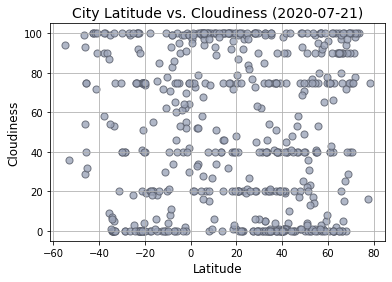
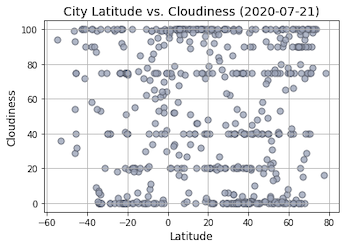
image size changes

diff --git a/WebVisualizations/index.html b/WebVisualizations/index.html
@@ -53,7 +53,7 @@
 						<div class="about-border"></div>
 						<div class="vizcards">
 							<div class="image-wrapper float-left pr-3">
-								<img src="images/lat_temp.png" width="392" height="282" alt="temp">
+								<img src="images/lat_temp.png" width="345" height="248" alt="temp">
 							</div>
 							<div class="single-post-content-wrapper p-3">
 								Whether financial, political, or social -- data's true power lies in its ability to answer questions definitively. I used Python requests, APIs, and JSON traversals to answer a fundamental question: "What's the weather like as we approach the equator?"

diff --git a/WebVisualizations/temp.html b/WebVisualizations/temp.html
@@ -53,7 +53,7 @@
 						<div class="about-border"></div>
 						<div class="vizcards">
 							<div class="image-wrapper float-left pr-3">
-								<img src="images/lat_temp.png" width="392" height="282" alt="temp">
+								<img src="images/lat_temp.png" width="345" height="248" alt="temp">
 							</div>
 							<div class="single-post-content-wrapper p-3">
 								This scatter plot clearly depicts the rise of temperature from the Southern Hemisphere's lowest latitude (-60) to the equator (0) and the Northern's highest latitude (80) to the equater (0).

diff --git a/WebVisualizations/humidity.html b/WebVisualizations/humidity.html
@@ -53,7 +53,7 @@
 						<div class="about-border"></div>
 						<div class="vizcards">
 							<div class="image-wrapper float-left pr-3">
-								<img src="images/lat_humidity.png" width="392" height="282" alt="temp">
+								<img src="images/lat_humidity.png" width="345" height="248" alt="temp">
 							</div>
 							<div class="single-post-content-wrapper p-3">
 								This scatter plot shows that humidity level, world wide, has low correlation to latitude.

diff --git a/WebVisualizations/cloud.html b/WebVisualizations/cloud.html
@@ -53,7 +53,7 @@
 						<div class="about-border"></div>
 						<div class="vizcards">
 							<div class="image-wrapper float-left pr-3">
-								<img src="images/lat_clouds.png" width="392" height="282" alt="temp">
+								<img src="images/lat_clouds.png" width="345" height="248" alt="temp">
 							</div>
 							<div class="single-post-content-wrapper p-3">
 								The data showed a weak linear relationship in Cloudiness around the planet.

diff --git a/WebVisualizations/wind.html b/WebVisualizations/wind.html
@@ -53,7 +53,7 @@
 						<div class="about-border"></div>
 						<div class="vizcards">
 							<div class="image-wrapper float-left pr-3">
-								<img src="images/lat_wind.png" width="392" height="282" alt="temp">
+								<img src="images/lat_wind.png" width="345" height="248" alt="temp">
 							</div>
 							<div class="single-post-content-wrapper p-3">
 								The data shows a weak linear relationship in Wind Speed.
